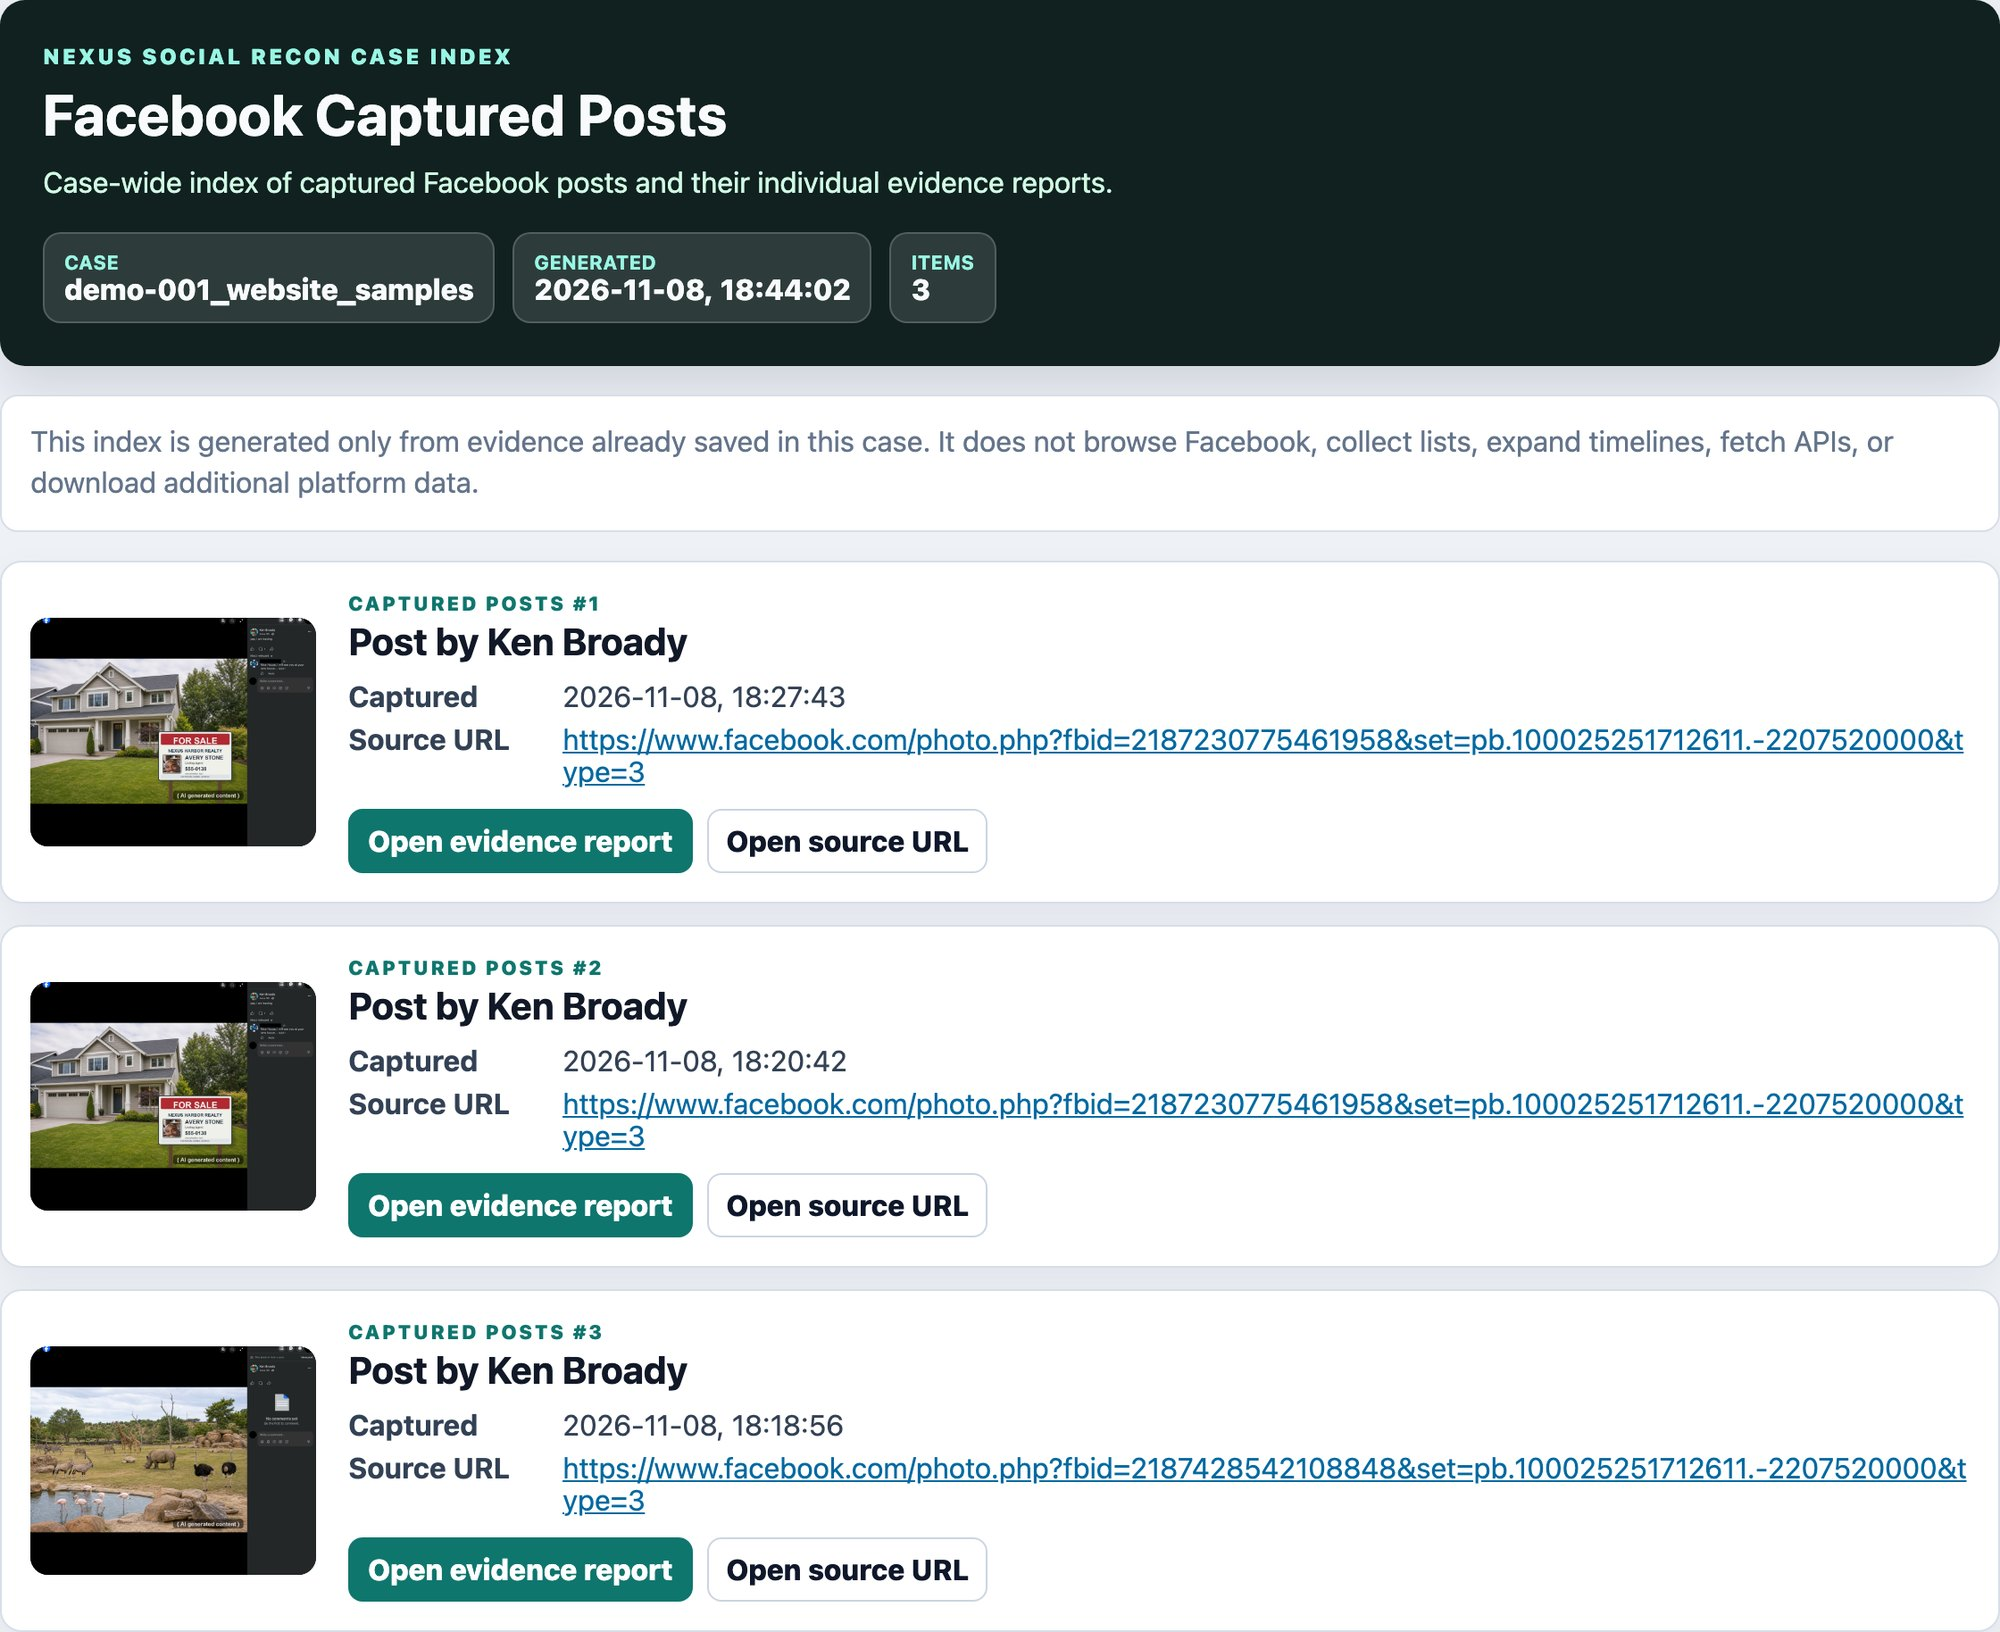
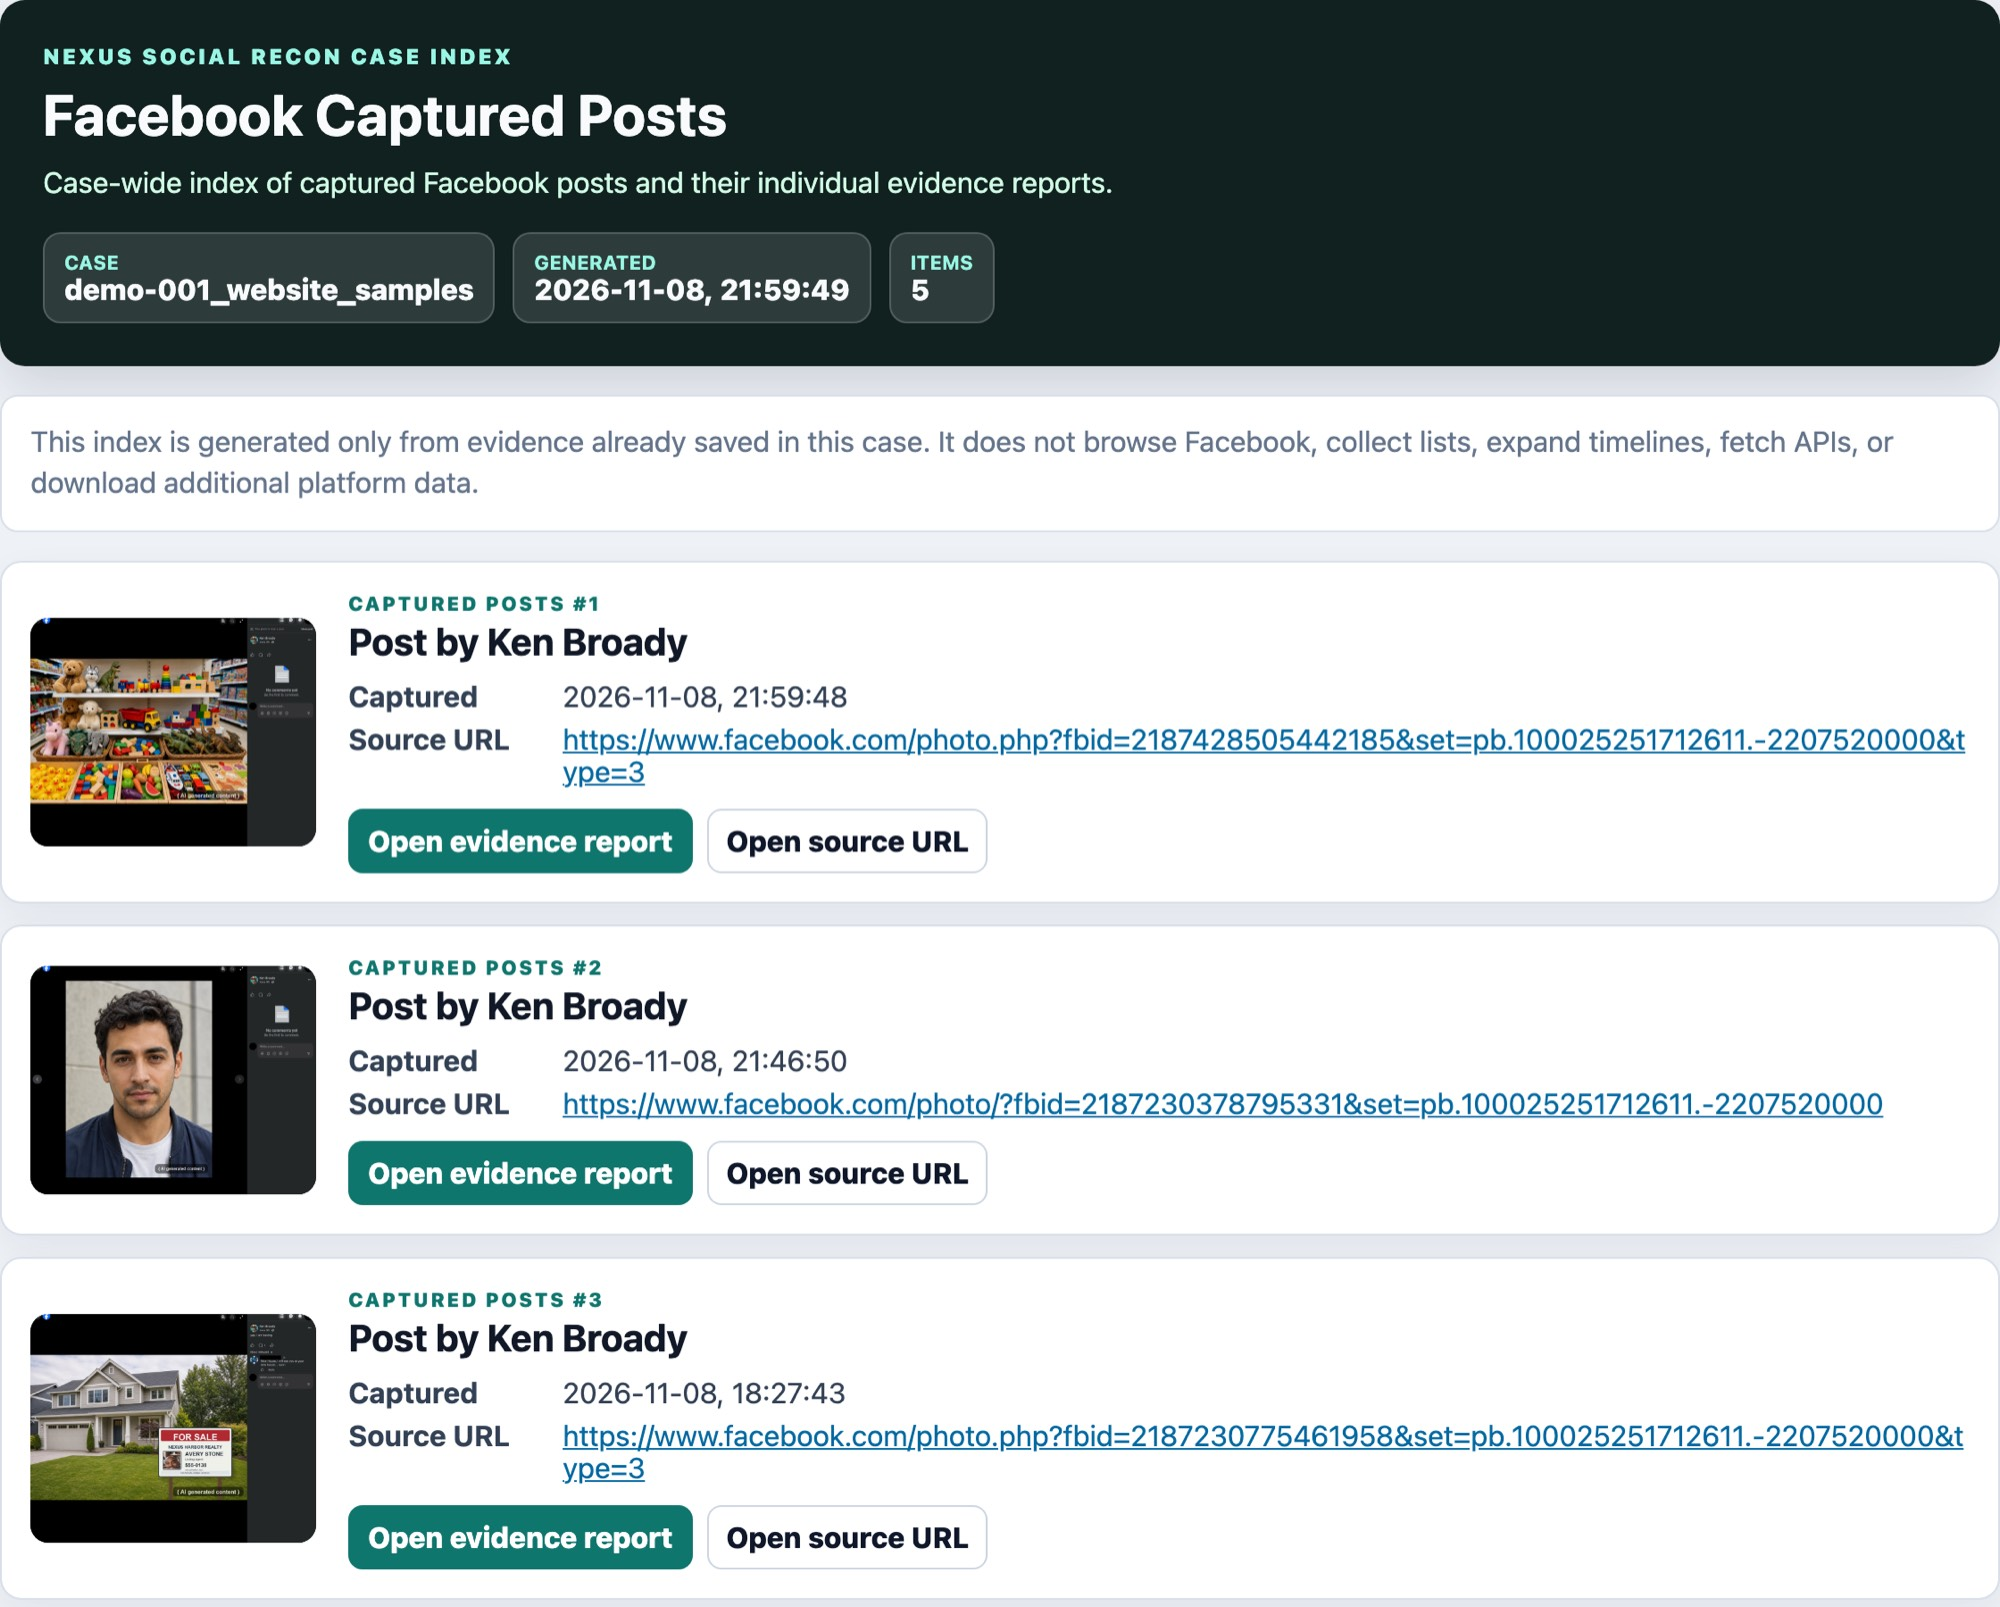
Social Recon page: Source-linked reports picture without the duplicate post
Re-captured from the demo case's current Facebook Captured Posts page (5 items,
newest first): the toy store, the portrait and the house now show, instead of
the house post twice. Card and full-size pictures versioned so browsers reload
them.

Changed region(s): [[0.0, 0.3423, 0.992, 1.0], [0.0, 0.0311, 1.0, 0.3111]]

diff --git a/products/nexus-social-recon.html b/products/nexus-social-recon.html
@@ -582,7 +582,7 @@
             <span class="card-icon" aria-hidden="true"><svg viewBox="0 0 24 24" fill="none" stroke="currentColor" stroke-width="1.6" stroke-linecap="round" stroke-linejoin="round"><path d="M6 3h8l4 4v14H6z"/><path d="M14 3v4h4"/><path d="M9 12h6M9 16h4"/></svg></span>
             <h3>Source-linked reports</h3>
             <p>Thumbnails, timestamps, source links, and local paths for each captured item.</p>
-            <div class="clipart shot"><img src="../assets/report-shots/source-linked-report.jpg" data-lightbox-src="../assets/report-shots/source-linked-report-full.jpg" alt="Demo case: Facebook Captured Posts index with thumbnails, capture times and source links" width="320" height="180" loading="lazy" decoding="async" /></div>
+            <div class="clipart shot"><img src="../assets/report-shots/source-linked-report.jpg?v=2" data-lightbox-src="../assets/report-shots/source-linked-report-full.jpg?v=2" alt="Demo case: Facebook Captured Posts index with thumbnails, capture times and source links" width="320" height="180" loading="lazy" decoding="async" /></div>
           </article>
           <article class="feature-card">
             <span class="card-icon" aria-hidden="true"><svg viewBox="0 0 24 24" fill="none" stroke="currentColor" stroke-width="1.6" stroke-linecap="round" stroke-linejoin="round"><circle cx="10.5" cy="10.5" r="6.5"/><path d="M20 20l-4.8-4.8"/></svg></span>
